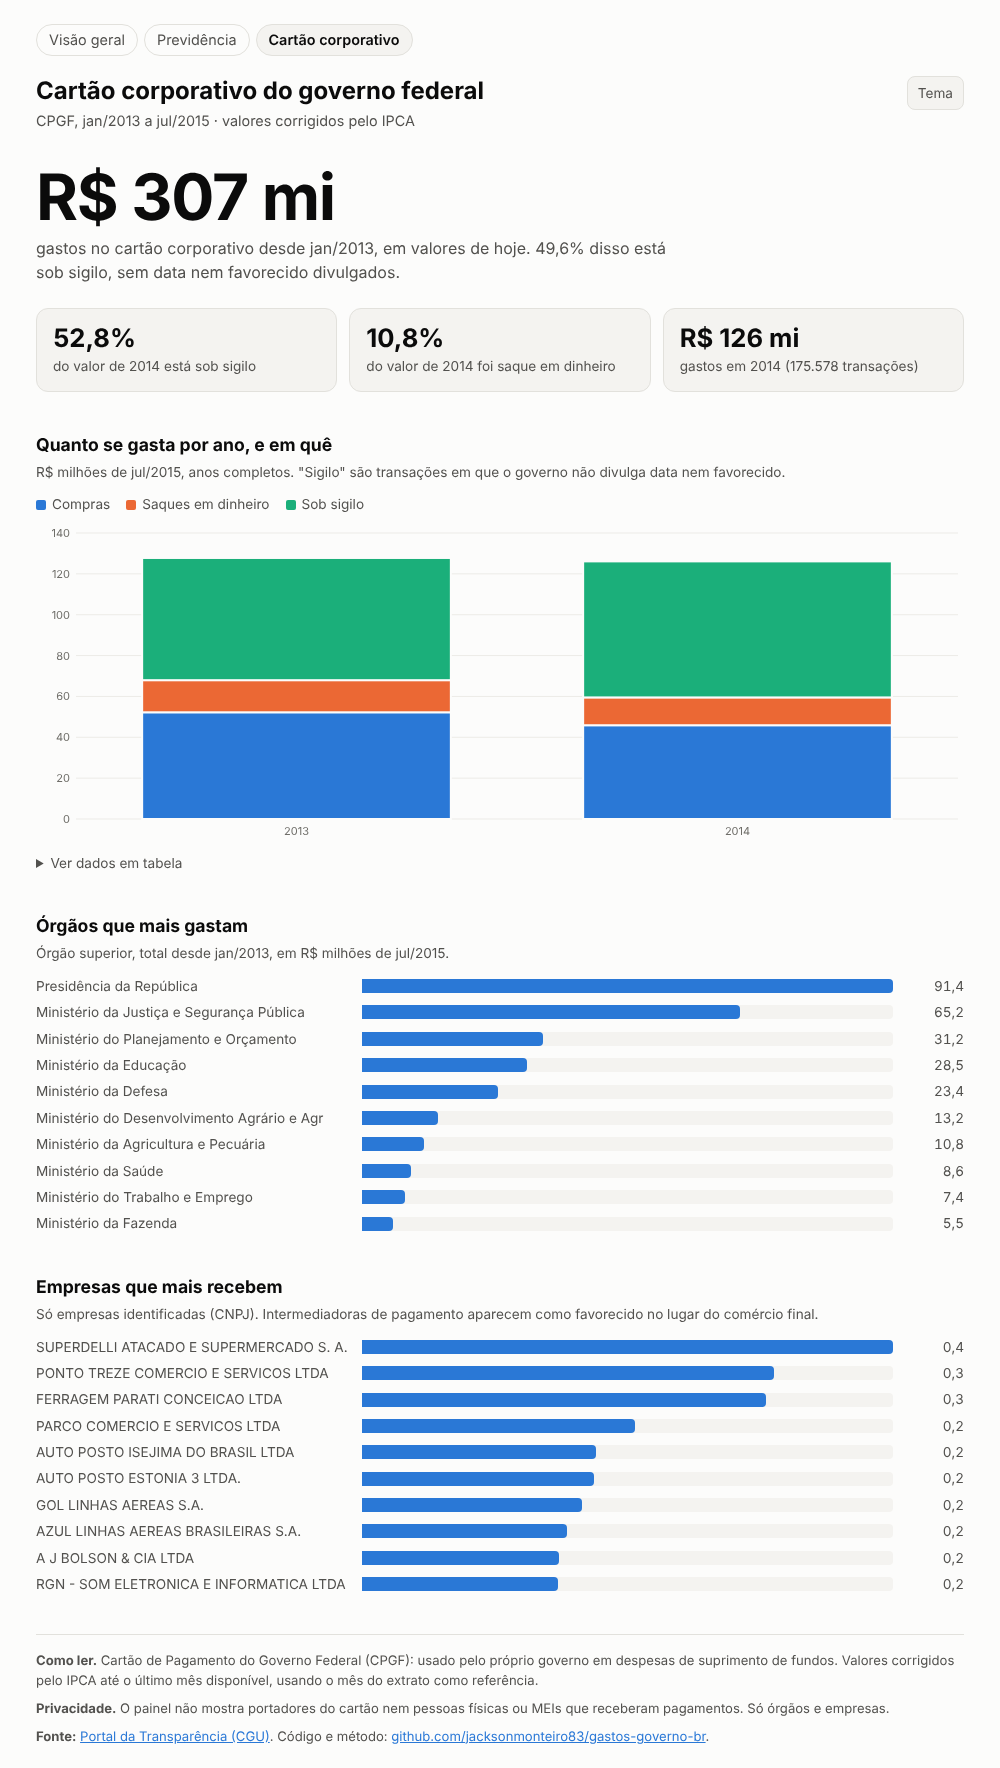
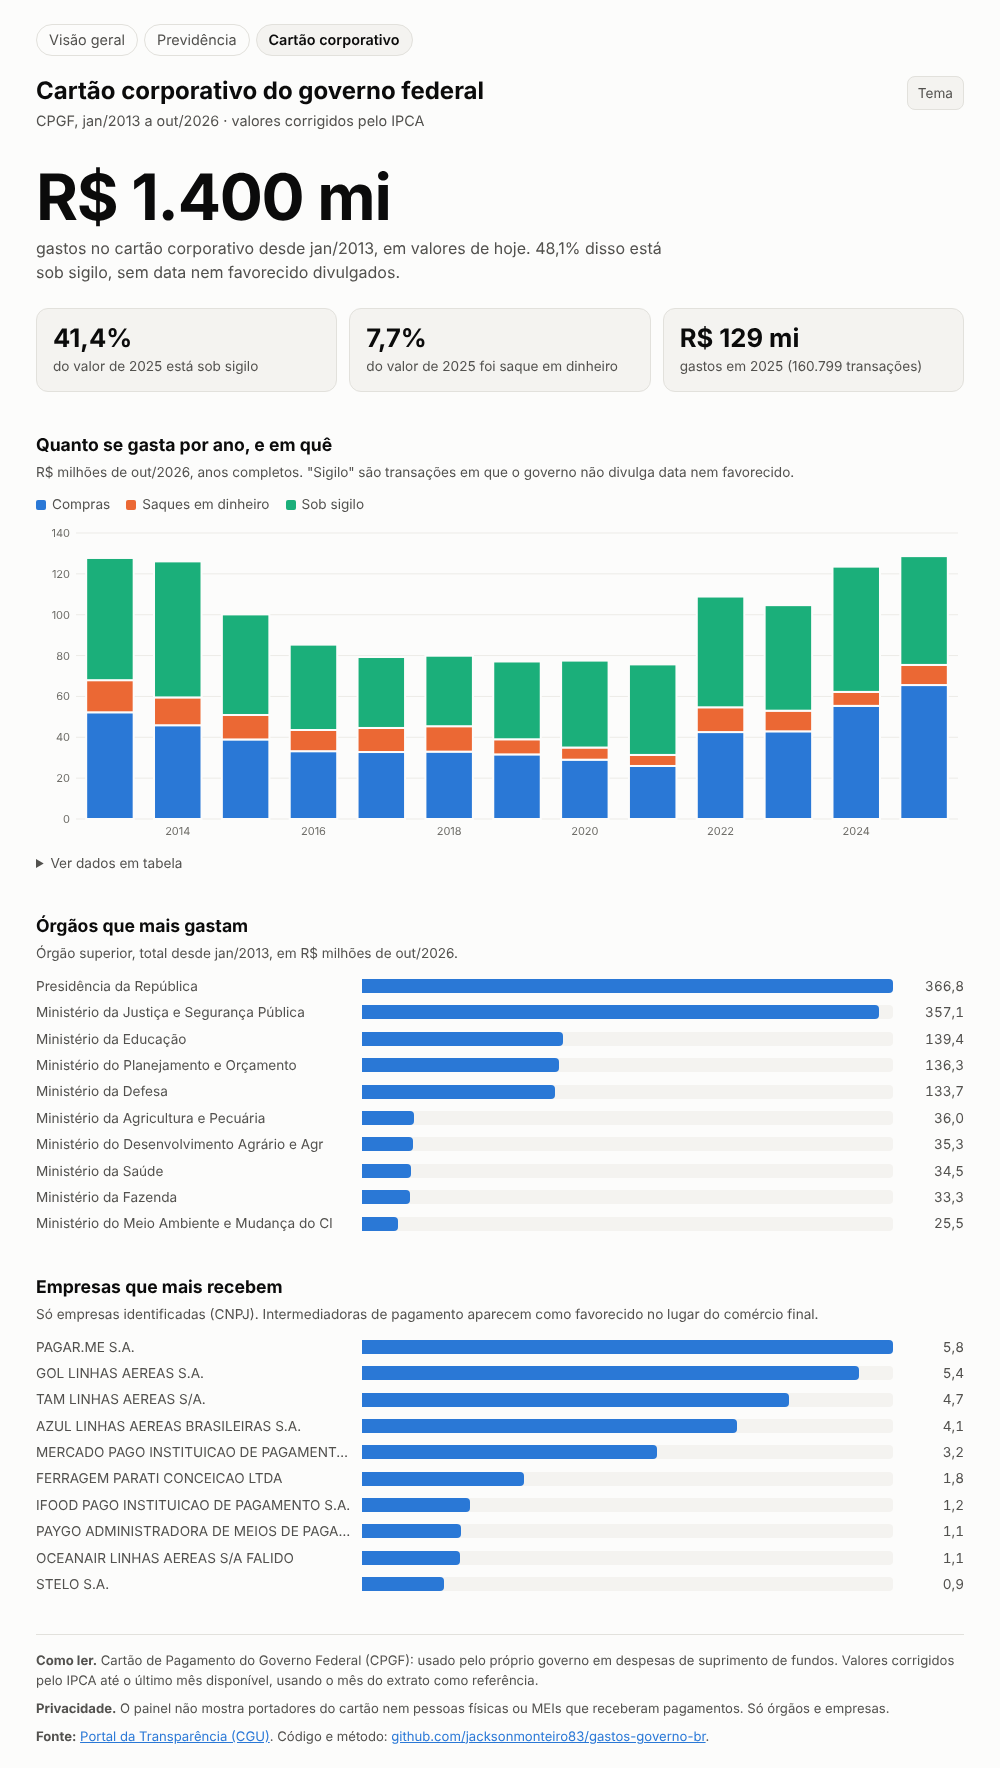
README e print do cartão: cobertura completa (jan/2013 a out/2026)
Claude-Session: https://claude.ai/code/session_01KiiusXRWrSgj2tX4znhx2G

diff --git a/README.md b/README.md
@@ -12,7 +12,7 @@ Para onde vai o dinheiro do governo federal, em valores reais (corrigidos pelo I
 - **Juros:** R$ 12,81 tri pagos em juros da dívida desde 1997, em valores de hoje, 20,8% de tudo que o governo central gastou. Só em 2025, R$ 933 bi (R$ 2,56 bi por dia), 10,7× o investimento federal.
 - **Previdência (INSS/RGPS):** em 2025 a arrecadação líquida cobriu 69,1% dos benefícios; o Tesouro pagou a diferença, R$ 333 bi (2,5% do PIB). Em 1997 a cobertura era de 94%. Desde 2010, já descontada a inflação, os benefícios cresceram 72% e a arrecadação, 43%. A diferença chegou a 3,4% do PIB em 2020 e desde então recuou.
 - **Envelhecimento:** a página de Previdência cruza a conta com a projeção de população do IBGE (revisão 2024): idosos de 65+ para cada 100 pessoas de 15 a 64 anos, de 2000 a 2070.
-- **Cartão corporativo:** quase metade do valor gasto nos anos já processados está sob sigilo, sem data nem favorecido divulgados.
+- **Cartão corporativo (jan/2013 a out/2026):** R$ 1,40 bi gastos, em valores de hoje. 48,1% do total está sob sigilo, sem data nem favorecido divulgados (41,4% em 2025). Os saques em espécie são 10,1% do total.
 
 ## Stack
 - **Python / pandas** para ingestão (APIs e planilhas) e agregação
@@ -58,7 +58,7 @@ Para publicar: Settings → Pages → Deploy from a branch → `main` / `/docs`.
 - **Cartão corporativo:** valores corrigidos pelo IPCA usando o mês do extrato. Privacidade: portadores, pessoas físicas e MEIs não entram na saída, só órgãos e empresas.
 
 ## Limitações conhecidas
-- A cobertura do cartão corporativo no site ainda não vai até o mês atual: os dados publicados hoje cobrem de jan/2013 a jul/2015 e estou investigando os meses seguintes.
+- O Portal da Transparência limita downloads seguidos: a primeira carga completa do cartão (2013 até hoje) precisou de várias execuções do workflow, que guarda os ZIPs já baixados em cache. As atualizações mensais seguintes são rápidas.
 - O dbt tem só o modelo de IPCA; os modelos do Tesouro e do CPGF ainda não foram escritos.
 
 ## Atualização
